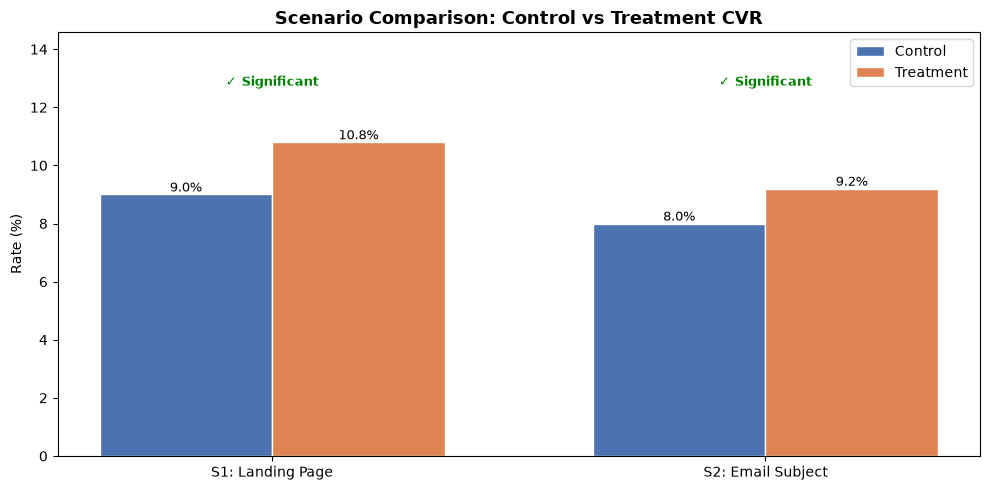
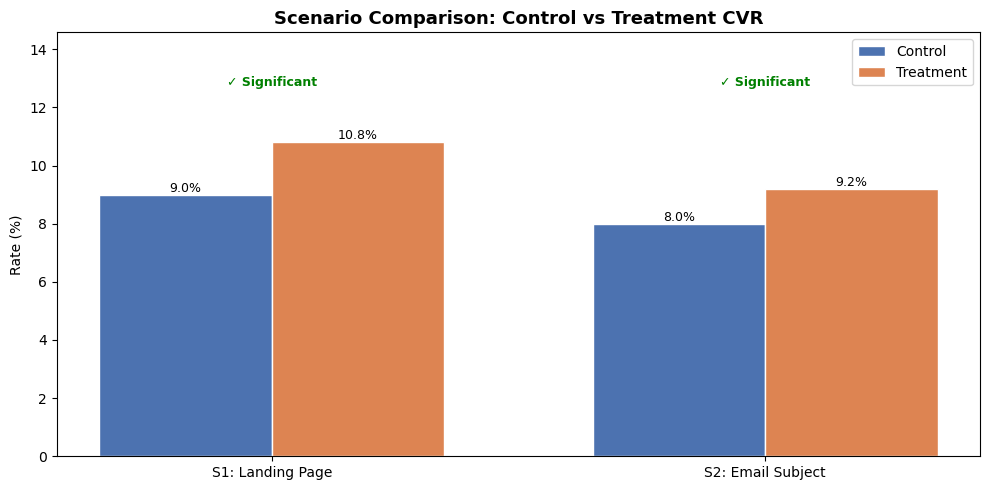
return relative path from generate_report

diff --git a/framework/ab_test.py b/framework/ab_test.py
@@ -164,8 +164,8 @@ def generate_report(
     with open(path, "w") as f:
         json.dump(report, f, indent=2)
 
-    print(f"Report saved: {os.path.abspath(path)}")
-    return os.path.abspath(path)
+    print(f"Report saved: {path}")
+    return path
 
 
 if __name__ == "__main__":
